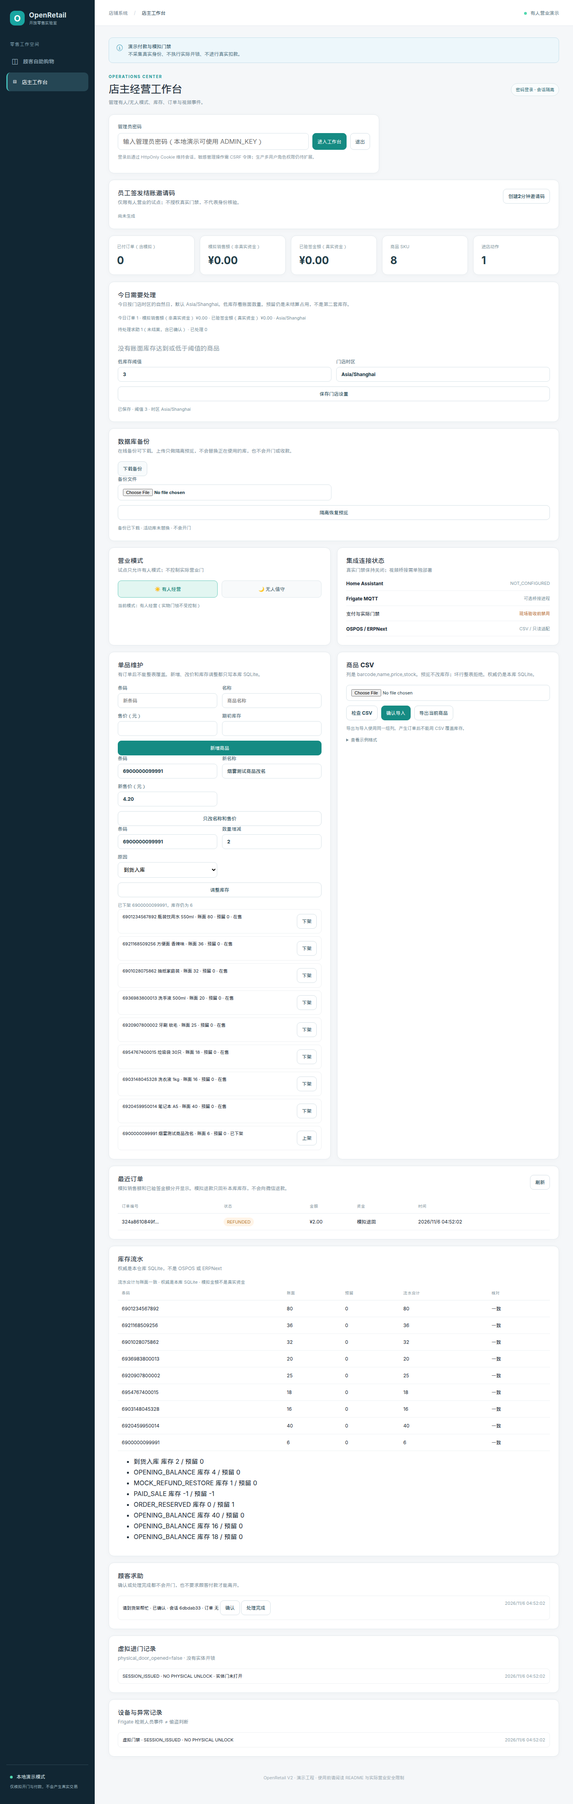
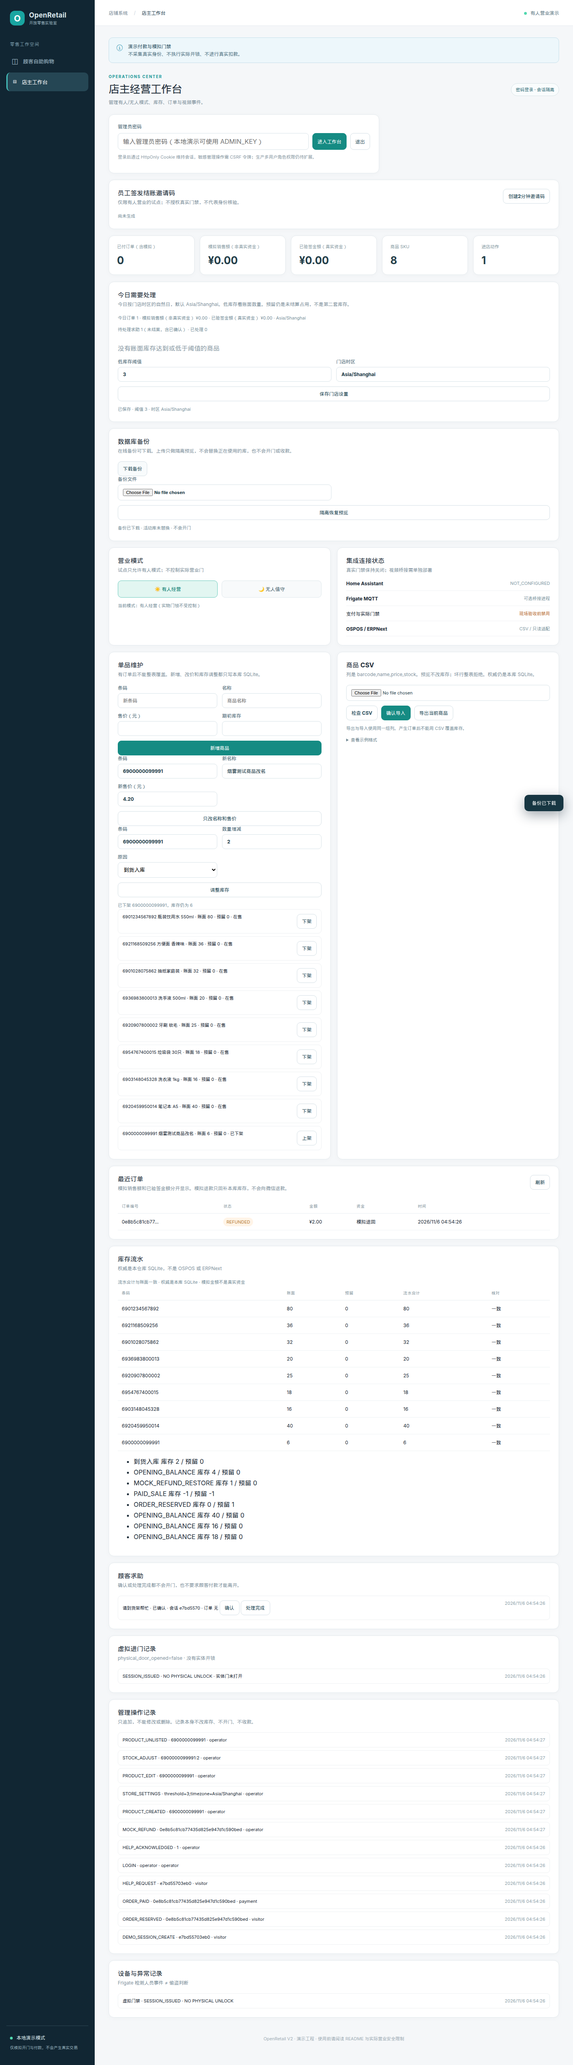
Show an append-only audit trail for privileged admin actions.
Product changes, mock refunds, help updates, store settings, and backup preview now record the existing admin actor. Staff can read the log and cannot edit or delete it.

diff --git a/web/app.js b/web/app.js
@@ -42,7 +42,7 @@ async function showEntryStatus(){const status=await api('/api/entry/status',{gue
 async function createOrder(){if(!state.token)throw Error('先创建访客会话');const req={request_id:(crypto.randomUUID?.()||('demo-'+Date.now()+'-'+Math.random())),lines:[...state.cart].map(([product_id,quantity])=>({product_id,quantity}))};const r=await api('/api/orders',{method:'POST',body:req,guest:true});state.orderId=r.id;$('cancel-order-btn').disabled=false;$('pay-btn').disabled=state.paymentProvider==='DISABLED';$('payment-qr').hidden=true;showPay(r);await refreshMine();return r}
 async function confirmMock(){const r=await api('/api/payments/mock-confirm',{method:'POST',body:{order_id:state.orderId},guest:true});showPay(r);if(r.status==='PAID'){state.cart.clear();state.orderId='';$('cancel-order-btn').disabled=true;$('pay-btn').disabled=true;await loadProducts()}await refreshMine();return r}
 function fundLabel(order){if(order.status==='PAID'&&order.provider==='MOCK_NOT_REAL_MONEY')return '模拟销售额';if(Number(order.verified)===1)return '已验签真实资金';if(order.status==='REFUNDED'&&order.provider==='MOCK_NOT_REAL_MONEY')return '模拟退回';return '未收款'}
-async function adminRefresh(){if(!state.csrf)return;const [overview,orders,events,ledger,help,catalog]=await Promise.all([api('/api/admin/overview',{admin:true}),api('/api/admin/orders',{admin:true}),api('/api/admin/events',{admin:true}),api('/api/admin/inventory-ledger',{admin:true}),api('/api/admin/help-requests',{admin:true}),api('/api/admin/products',{admin:true})]);$('admin-body').hidden=false;$('m-orders').textContent=overview.paid_orders;$('m-sales').textContent=money(overview.simulated_revenue_cents);$('m-real').textContent=money(overview.verified_revenue_cents);$('today-summary').textContent='今日订单 '+overview.today_order_count+' · 模拟销售额（非真实资金） '+money(overview.today_simulated_revenue_cents)+' · 已验签金额（真实资金） '+money(overview.today_verified_revenue_cents)+' · '+overview.store_timezone;$('low-stock-threshold').value=overview.low_stock_threshold;$('store-timezone').value=overview.store_timezone;$('admin-catalog').innerHTML=catalog.map(p=>`<div class="event"><span>${esc(p.barcode)} ${esc(p.name)} · 账面 ${p.stock} · 预留 ${p.reserved_stock} · ${p.active?'在售':'已下架'}</span><button class="btn secondary" type="button" data-listing-id="${p.id}" data-listing-barcode="${esc(p.barcode)}" data-listing-active="${p.active?0:1}">${p.active?'下架':'上架'}</button></div>`).join('')||'<p class="muted">没有商品</p>';$('help-attention').textContent='待处理求助 '+overview.help_needs_attention+'（未结案，含已确认） · 已处理 '+overview.help_resolved;$('low-stock-list').innerHTML=(overview.low_stock||[]).map(p=>`<div class="event"><span>${esc(p.barcode)} ${esc(p.name)} · 账面 ${p.stock} · 预留 ${p.reserved_stock} · 可售 ${p.available_stock}</span><time>阈值 ${overview.low_stock_threshold}</time></div>`).join('')||'<p class="muted">没有账面库存达到或低于阈值的商品</p>';$('m-products').textContent=overview.products;$('m-entries').textContent=overview.door_events;$('mode-info').textContent='当前模式：'+(overview.mode==='UNATTENDED'?'无人值守':'有人经营')+'（实物门锁不受控制）';$('ha-state').textContent=overview.home_assistant.status;$('mode-staffed').classList.toggle('selected',overview.mode==='STAFFED');$('mode-unattended').classList.toggle('selected',overview.mode==='UNATTENDED');$('order-table').innerHTML=orders.map(o=>{const refund=o.status==='PAID'&&o.provider==='MOCK_NOT_REAL_MONEY'&&Number(o.verified)!==1?`<button class="btn secondary" type="button" data-mock-refund="${esc(o.id)}">模拟退款</button>`:'';return `<tr><td title="${esc(o.id)}">${esc(o.id.slice(0,12))}…</td><td><span class="status ${o.status==='PAID'?'paid':''}">${esc(o.status)}</span></td><td>${money(o.total_cents)}</td><td>${esc(fundLabel(o))}</td><td>${time(o.created_at)}</td><td>${refund}</td></tr>`}).join('')||'<tr><td colspan="6">暂无订单</td></tr>';$('ledger-balance').textContent=(ledger.balanced?'流水合计与账面一致':'流水与账面不一致，需要人工核对')+' · 权威是本库 SQLite · 模拟金额不是真实资金';$('ledger-table').innerHTML=ledger.products.map(p=>`<tr><td>${esc(p.barcode)}</td><td>${p.stock}</td><td>${p.reserved_stock}</td><td>${p.ledger_stock}</td><td>${p.balanced?'一致':'不一致'}</td></tr>`).join('')||'<tr><td colspan="5">没有商品</td></tr>';$('ledger-moves').innerHTML=ledger.movements.slice(0,8).map(m=>`<li>${esc(m.reason)} 库存 ${m.stock_delta} / 预留 ${m.reserved_delta}</li>`).join('');const helpLabel={OPEN:'待处理',ACKNOWLEDGED:'已确认',RESOLVED:'已处理'};$('help-list').innerHTML=(help.requests||[]).map(h=>{const buttons=h.status==='RESOLVED'?'':`<button class="btn secondary" type="button" data-help-id="${esc(h.id)}" data-help-status="ACKNOWLEDGED">确认</button> <button class="btn secondary" type="button" data-help-id="${esc(h.id)}" data-help-status="RESOLVED">处理完成</button>`;return `<div class="event"><span>${esc(h.message)} · ${esc(helpLabel[h.status]||h.status)} · 会话 ${esc((h.session_id||'无').slice(0,8))} · 订单 ${esc((h.order_id||'无').slice(0,8))} ${buttons}</span><time>${time(h.created_at)}</time></div>`}).join('')||'<p class="muted">没有求助</p>';$('door-lock-note').textContent=events.physical_door_opened===false?'physical_door_opened=false · 没有实体开锁':'门状态异常';$('door-event-list').innerHTML=(events.door||[]).map(e=>`<div class="event"><span>${esc(e.result)} · ${esc(e.detail)} · 实体门未打开</span><time>${time(e.created_at)}</time></div>`).join('')||'<p class="muted">没有虚拟进门记录</p>';const incident=events.frigate.map(e=>({name:'Frigate 人员事件 · '+e.camera+' · '+e.event_type,t:e.created_at})),doors=events.door.map(e=>({name:'虚拟门禁 · '+e.result+' · '+e.detail,t:e.created_at}));$('event-list').innerHTML=[...incident,...doors].sort((a,b)=>b.t-a.t).slice(0,15).map(e=>`<div class="event"><span>${esc(e.name)}</span><time>${time(e.t)}</time></div>`).join('')||'<p class="muted">暂无设备事件</p>'}
+async function adminRefresh(){if(!state.csrf)return;const [overview,orders,events,ledger,help,catalog,audit]=await Promise.all([api('/api/admin/overview',{admin:true}),api('/api/admin/orders',{admin:true}),api('/api/admin/events',{admin:true}),api('/api/admin/inventory-ledger',{admin:true}),api('/api/admin/help-requests',{admin:true}),api('/api/admin/products',{admin:true}),api('/api/admin/audit',{admin:true})]);$('admin-body').hidden=false;$('m-orders').textContent=overview.paid_orders;$('m-sales').textContent=money(overview.simulated_revenue_cents);$('m-real').textContent=money(overview.verified_revenue_cents);$('today-summary').textContent='今日订单 '+overview.today_order_count+' · 模拟销售额（非真实资金） '+money(overview.today_simulated_revenue_cents)+' · 已验签金额（真实资金） '+money(overview.today_verified_revenue_cents)+' · '+overview.store_timezone;$('low-stock-threshold').value=overview.low_stock_threshold;$('store-timezone').value=overview.store_timezone;$('admin-catalog').innerHTML=catalog.map(p=>`<div class="event"><span>${esc(p.barcode)} ${esc(p.name)} · 账面 ${p.stock} · 预留 ${p.reserved_stock} · ${p.active?'在售':'已下架'}</span><button class="btn secondary" type="button" data-listing-id="${p.id}" data-listing-barcode="${esc(p.barcode)}" data-listing-active="${p.active?0:1}">${p.active?'下架':'上架'}</button></div>`).join('')||'<p class="muted">没有商品</p>';$('audit-list').innerHTML=(audit.events||[]).map(e=>`<div class="event"><span>${esc(e.action)} · ${esc(e.detail)} · ${esc(e.actor)}</span><time>${time(e.created_at)}</time></div>`).join('')||'<p class="muted">没有操作记录</p>';$('help-attention').textContent='待处理求助 '+overview.help_needs_attention+'（未结案，含已确认） · 已处理 '+overview.help_resolved;$('low-stock-list').innerHTML=(overview.low_stock||[]).map(p=>`<div class="event"><span>${esc(p.barcode)} ${esc(p.name)} · 账面 ${p.stock} · 预留 ${p.reserved_stock} · 可售 ${p.available_stock}</span><time>阈值 ${overview.low_stock_threshold}</time></div>`).join('')||'<p class="muted">没有账面库存达到或低于阈值的商品</p>';$('m-products').textContent=overview.products;$('m-entries').textContent=overview.door_events;$('mode-info').textContent='当前模式：'+(overview.mode==='UNATTENDED'?'无人值守':'有人经营')+'（实物门锁不受控制）';$('ha-state').textContent=overview.home_assistant.status;$('mode-staffed').classList.toggle('selected',overview.mode==='STAFFED');$('mode-unattended').classList.toggle('selected',overview.mode==='UNATTENDED');$('order-table').innerHTML=orders.map(o=>{const refund=o.status==='PAID'&&o.provider==='MOCK_NOT_REAL_MONEY'&&Number(o.verified)!==1?`<button class="btn secondary" type="button" data-mock-refund="${esc(o.id)}">模拟退款</button>`:'';return `<tr><td title="${esc(o.id)}">${esc(o.id.slice(0,12))}…</td><td><span class="status ${o.status==='PAID'?'paid':''}">${esc(o.status)}</span></td><td>${money(o.total_cents)}</td><td>${esc(fundLabel(o))}</td><td>${time(o.created_at)}</td><td>${refund}</td></tr>`}).join('')||'<tr><td colspan="6">暂无订单</td></tr>';$('ledger-balance').textContent=(ledger.balanced?'流水合计与账面一致':'流水与账面不一致，需要人工核对')+' · 权威是本库 SQLite · 模拟金额不是真实资金';$('ledger-table').innerHTML=ledger.products.map(p=>`<tr><td>${esc(p.barcode)}</td><td>${p.stock}</td><td>${p.reserved_stock}</td><td>${p.ledger_stock}</td><td>${p.balanced?'一致':'不一致'}</td></tr>`).join('')||'<tr><td colspan="5">没有商品</td></tr>';$('ledger-moves').innerHTML=ledger.movements.slice(0,8).map(m=>`<li>${esc(m.reason)} 库存 ${m.stock_delta} / 预留 ${m.reserved_delta}</li>`).join('');const helpLabel={OPEN:'待处理',ACKNOWLEDGED:'已确认',RESOLVED:'已处理'};$('help-list').innerHTML=(help.requests||[]).map(h=>{const buttons=h.status==='RESOLVED'?'':`<button class="btn secondary" type="button" data-help-id="${esc(h.id)}" data-help-status="ACKNOWLEDGED">确认</button> <button class="btn secondary" type="button" data-help-id="${esc(h.id)}" data-help-status="RESOLVED">处理完成</button>`;return `<div class="event"><span>${esc(h.message)} · ${esc(helpLabel[h.status]||h.status)} · 会话 ${esc((h.session_id||'无').slice(0,8))} · 订单 ${esc((h.order_id||'无').slice(0,8))} ${buttons}</span><time>${time(h.created_at)}</time></div>`}).join('')||'<p class="muted">没有求助</p>';$('door-lock-note').textContent=events.physical_door_opened===false?'physical_door_opened=false · 没有实体开锁':'门状态异常';$('door-event-list').innerHTML=(events.door||[]).map(e=>`<div class="event"><span>${esc(e.result)} · ${esc(e.detail)} · 实体门未打开</span><time>${time(e.created_at)}</time></div>`).join('')||'<p class="muted">没有虚拟进门记录</p>';const incident=events.frigate.map(e=>({name:'Frigate 人员事件 · '+e.camera+' · '+e.event_type,t:e.created_at})),doors=events.door.map(e=>({name:'虚拟门禁 · '+e.result+' · '+e.detail,t:e.created_at}));$('event-list').innerHTML=[...incident,...doors].sort((a,b)=>b.t-a.t).slice(0,15).map(e=>`<div class="event"><span>${esc(e.name)}</span><time>${time(e.t)}</time></div>`).join('')||'<p class="muted">暂无设备事件</p>'}
 async function run(fn){try{await fn()}catch(e){toast(e.message);console.error(e)}}
 document.addEventListener('click',e=>{const refund=e.target.closest('[data-mock-refund]');if(refund){run(async()=>{const r=await api('/api/admin/orders/'+refund.dataset.mockRefund+'/mock-refund',{admin:true,method:'POST'});toast(r.real_money?'异常：模拟退款不应产生真实资金':'模拟退款已回补库存，不是微信退款');await adminRefresh();await loadProducts()});return}const listing=e.target.closest('[data-listing-id]');if(listing){run(async()=>{const r=await api('/api/admin/products/'+listing.dataset.listingId+'/listing',{admin:true,method:'POST',body:{active:listing.dataset.listingActive==='1'}});if(r.stock_changed||r.physical_door_opened||r.real_door_enabled)throw Error('上下架不应改库存或开门');$('product-status').textContent=(r.active?'已上架':'已下架')+' '+r.barcode+'，库存仍为 '+r.stock;await adminRefresh();await loadProducts();toast(r.active?'已上架':'已下架')});return}const helpAction=e.target.closest('[data-help-status]');if(helpAction){run(async()=>{const r=await api('/api/admin/help-requests/'+helpAction.dataset.helpId+'/status',{admin:true,method:'POST',body:{status:helpAction.dataset.helpStatus}});if(r.physical_door_opened||r.payment_required_to_leave||r.door_authorized)throw Error('处理求助不应开门或要求付款');toast(r.status==='RESOLVED'?'求助已处理，门未打开':'已确认求助，门未打开');await adminRefresh()});return}const nav=e.target.closest('[data-panel]');if(nav){document.querySelectorAll('.nav').forEach(n=>n.classList.toggle('active',n===nav));['shop','admin'].forEach(p=>$('panel-'+p).hidden=p!==nav.dataset.panel);$('current-title').textContent=nav.dataset.panel==='shop'?'顾客自助购物':'店主工作台';if(nav.dataset.panel==='admin')run(adminRefresh)}const addButton=e.target.closest('[data-add]');if(addButton)add(addButton.dataset.add);const minus=e.target.closest('[data-minus]');if(minus){if(state.orderId){toast('请先完成或取消当前订单');return}const id=Number(minus.dataset.minus);const q=(state.cart.get(id)||0)-1;if(q<=0)state.cart.delete(id);else state.cart.set(id,q);state.orderId='';$('pay-btn').disabled=true;renderCart()}});
 $('entry-btn').onclick=()=>run(async()=>{const s=await api('/api/entry',{method:'POST'});state.token=s.guest_token;sessionStorage.setItem('retail_guest',state.token);$('entry-result').textContent='访客会话创建成功（未进行身份核验）；有效期至 '+time(s.expires_at);$('door-btn').disabled=false;await showEntryStatus();renderCart();toast('演示访客会话已创建')});

diff --git a/web/index.html b/web/index.html
@@ -66,6 +66,7 @@
         <article class="surface"><div class="surface-heading"><div><h2>库存流水</h2><p>权威是本仓库 SQLite，不是 OSPOS 或 ERPNext</p></div></div><div id="ledger-balance" class="inline-note">登录后核对</div><div class="table-wrap"><table><thead><tr><th>条码</th><th>账面</th><th>预留</th><th>流水合计</th><th>核对</th></tr></thead><tbody id="ledger-table"><tr><td colspan="5">尚未加载</td></tr></tbody></table></div><ul id="ledger-moves" class="events"></ul></article>
         <article class="surface"><div class="surface-heading"><div><h2>顾客求助</h2><p>确认或处理完成都不会开门，也不要求顾客付款才能离开。</p></div></div><div id="help-list" class="events"><p class="muted">没有求助</p></div></article>
         <article class="surface"><div class="surface-heading"><div><h2>虚拟进门记录</h2><p id="door-lock-note">实体门未打开</p></div></div><div id="door-event-list" class="events"><p class="muted">没有虚拟进门记录</p></div></article>
+        <article class="surface"><div class="surface-heading"><div><h2>管理操作记录</h2><p>只追加，不能修改或删除。记录本身不改库存、不开门、不收款。</p></div></div><div id="audit-list" class="events"><p class="muted">没有操作记录</p></div></article>
         <article class="surface"><div class="surface-heading"><div><h2>设备与异常记录</h2><p>Frigate 检测人员事件 ≠ 偷盗判断</p></div></div><div id="event-list" class="events"><p class="muted">没有事件</p></div></article>
       </div>
     </section>

diff --git a/openretail/main.py b/openretail/main.py
@@ -581,8 +581,8 @@ def create_app(settings:Settings|None=None)->FastAPI:
             return mock_body(order_id=order_id,trade_state=mock_trade_state(row,payment),
                              order_status=row['status'],expired_last_check=expired)
 
-    @app.post('/api/admin/orders/{order_id}/mock-refund',dependencies=[Depends(admin)])
-    def mock_refund(order_id:str):
+    @app.post('/api/admin/orders/{order_id}/mock-refund')
+    def mock_refund(order_id:str, actor:str=Depends(admin)):
         """Restore SQLite stock for an unverified mock sale. No provider refund exists."""
         mock_enabled()
         with db.tx() as c:
@@ -607,7 +607,7 @@ def create_app(settings:Settings|None=None)->FastAPI:
             if cur.rowcount!=1:raise RuntimeError('mock refund lost the paid row')
             c.execute('INSERT INTO refunds(id,order_id,provider,amount_cents,created_at) VALUES(?,?,?,?,?)',
                       ('mock_refund_'+order_id,order_id,'MOCK_NOT_REAL_MONEY',row['total_cents'],now()))
-            db.audit(c,'operator','MOCK_REFUND',order_id)
+            db.audit(c,actor,'MOCK_REFUND',order_id)
             return mock_body(order_id=order_id,outcome='REFUNDED',trade_state='REFUND',
                              order_status='REFUNDED',stock_restored=True)
 
@@ -801,8 +801,8 @@ def create_app(settings:Settings|None=None)->FastAPI:
             db.audit(c,'operator','MODE_SET',payload.mode)
         return {'mode':payload.mode,'physical_door_affected':False}
 
-    @app.put('/api/admin/store-settings',dependencies=[Depends(admin)])
-    def update_store_settings(payload:StoreSettingsInput):
+    @app.put('/api/admin/store-settings')
+    def update_store_settings(payload:StoreSettingsInput, actor:str=Depends(admin)):
         """Staff threshold and business-day timezone. No door or payment side effects."""
         if payload.low_stock_threshold is None and payload.timezone is None:
             abort(422,'请提供低库存阈值或门店时区')
@@ -815,7 +815,7 @@ def create_app(settings:Settings|None=None)->FastAPI:
             if payload.timezone is not None:
                 c.execute('''INSERT INTO store_settings(key,value) VALUES('store_timezone',?)
                              ON CONFLICT(key) DO UPDATE SET value=excluded.value''',(payload.timezone,))
-            db.audit(c,'operator','STORE_SETTINGS',
+            db.audit(c,actor,'STORE_SETTINGS',
                      f"threshold={payload.low_stock_threshold};timezone={payload.timezone or ''}")
             threshold=int(c.execute("SELECT value FROM store_settings WHERE key='low_stock_threshold'").fetchone()['value'])
             zone_name=c.execute("SELECT value FROM store_settings WHERE key='store_timezone'").fetchone()['value']
@@ -826,8 +826,8 @@ def create_app(settings:Settings|None=None)->FastAPI:
     def admin_products():
         with db.connect() as c:return [asdict(r) for r in c.execute('SELECT * FROM products ORDER BY id')]
 
-    @app.post('/api/admin/products',dependencies=[Depends(admin)])
-    def create_product(payload:ProductInput):
+    @app.post('/api/admin/products')
+    def create_product(payload:ProductInput, actor:str=Depends(admin)):
         """Add one SQLite catalog row. Duplicate barcodes are not an overwrite."""
         with db.tx() as c:
             db.expire(c,now())
@@ -836,27 +836,27 @@ def create_app(settings:Settings|None=None)->FastAPI:
             cur=c.execute('INSERT INTO products(barcode,name,price_cents,stock,active) VALUES(?,?,?,?,?)',
                           (payload.barcode,payload.name,payload.price_cents,payload.stock,int(payload.active)))
             db.movement(c,cur.lastrowid,payload.stock,0,'OPENING_BALANCE',payload.barcode)
-            db.audit(c,'operator','PRODUCT_CREATED',payload.barcode)
+            db.audit(c,actor,'PRODUCT_CREATED',payload.barcode)
             row=c.execute('SELECT id,barcode,name,price_cents,stock,reserved_stock FROM products WHERE id=?',(cur.lastrowid,)).fetchone()
         return {**asdict(row),'created':True,'system_of_record':'sqlite'}
 
-    @app.patch('/api/admin/products/{product_id}',dependencies=[Depends(admin)])
-    def edit_product(product_id:int,payload:ProductEdit):
+    @app.patch('/api/admin/products/{product_id}')
+    def edit_product(product_id:int,payload:ProductEdit, actor:str=Depends(admin)):
         """Name and price only. Stock and reservations stay untouched."""
         with db.tx() as c:
             current=c.execute('SELECT id,barcode,stock,reserved_stock FROM products WHERE id=?',(product_id,)).fetchone()
             if not current:abort(404,'商品不存在')
             c.execute('UPDATE products SET name=?,price_cents=? WHERE id=?',
                       (payload.name,payload.price_cents,product_id))
-            db.audit(c,'operator','PRODUCT_EDIT',current['barcode'])
+            db.audit(c,actor,'PRODUCT_EDIT',current['barcode'])
             after=c.execute('SELECT stock,reserved_stock FROM products WHERE id=?',(product_id,)).fetchone()
             if after['stock']!=current['stock'] or after['reserved_stock']!=current['reserved_stock']:
                 raise RuntimeError('name/price edit changed stock')
         return {'id':product_id,'barcode':current['barcode'],'name':payload.name,'price_cents':payload.price_cents,
                 'stock':current['stock'],'reserved_stock':current['reserved_stock'],'stock_changed':False}
 
-    @app.post('/api/admin/products/{product_id}/listing',dependencies=[Depends(admin)])
-    def set_listing(product_id:int,payload:ListingInput):
+    @app.post('/api/admin/products/{product_id}/listing')
+    def set_listing(product_id:int,payload:ListingInput, actor:str=Depends(admin)):
         """上架/下架 one SKU. Stock, reservations, and the ledger stay unchanged."""
         with db.tx() as c:
             current=c.execute('SELECT id,barcode,stock,reserved_stock,active FROM products WHERE id=?',(product_id,)).fetchone()
@@ -866,7 +866,7 @@ def create_app(settings:Settings|None=None)->FastAPI:
             outcome='IDEMPOTENT' if current['active']==desired else ('LISTED' if desired else 'UNLISTED')
             if outcome!='IDEMPOTENT':
                 c.execute('UPDATE products SET active=? WHERE id=?',(desired,product_id))
-                db.audit(c,'operator','PRODUCT_'+outcome,current['barcode'])
+                db.audit(c,actor,'PRODUCT_'+outcome,current['barcode'])
             after=c.execute('SELECT stock,reserved_stock,active FROM products WHERE id=?',(product_id,)).fetchone()
             after_moves=c.execute('SELECT COUNT(*) n FROM stock_movements WHERE product_id=?',(product_id,)).fetchone()['n']
             if after['stock']!=current['stock'] or after['reserved_stock']!=current['reserved_stock'] or after_moves!=before_moves:
@@ -875,8 +875,8 @@ def create_app(settings:Settings|None=None)->FastAPI:
                 'stock':after['stock'],'reserved_stock':after['reserved_stock'],'stock_changed':False,
                 'physical_door_opened':False,'real_door_enabled':False}
 
-    @app.post('/api/admin/products/{product_id}/adjust-stock',dependencies=[Depends(admin)])
-    def adjust_stock(product_id:int,payload:StockChange):
+    @app.post('/api/admin/products/{product_id}/adjust-stock')
+    def adjust_stock(product_id:int,payload:StockChange, actor:str=Depends(admin)):
         if payload.quantity_delta==0:abort(422,'调整数量不能为 0')
         with db.tx() as c:
             p=c.execute('SELECT * FROM products WHERE id=?',(product_id,)).fetchone()
@@ -887,7 +887,7 @@ def create_app(settings:Settings|None=None)->FastAPI:
                 abort(409,'库存调整会低于可售底线或侵占未结算预留')
             c.execute('UPDATE products SET stock=? WHERE id=?',(new,product_id))
             db.movement(c,product_id,payload.quantity_delta,0,payload.reason,'MANUAL')
-            db.audit(c,'operator','STOCK_ADJUST',f'{product_id}:{payload.quantity_delta}')
+            db.audit(c,actor,'STOCK_ADJUST',f'{p["barcode"]}:{payload.quantity_delta}')
         return {'product_id':product_id,'stock':new,'reserved_stock':p['reserved_stock'],
                 'reason':payload.reason,'system_of_record':'sqlite'}
 
@@ -919,8 +919,8 @@ def create_app(settings:Settings|None=None)->FastAPI:
         if not path.is_absolute():path=(ROOT/path).resolve()
         return path.resolve()
 
-    @app.get('/api/admin/backup',dependencies=[Depends(admin)])
-    def download_backup():
+    @app.get('/api/admin/backup')
+    def download_backup(actor:str=Depends(admin)):
         """Online SQLite backup. The file is not written into the repository."""
         src=live_database_file()
         if not src.is_file():abort(404,'找不到数据库')
@@ -936,14 +936,14 @@ def create_app(settings:Settings|None=None)->FastAPI:
         finally:
             dst.unlink(missing_ok=True)
         with db.connect() as c:
-            db.audit(c,'operator','BACKUP_DOWNLOAD',src.name)
+            db.audit(c,actor,'BACKUP_DOWNLOAD',src.name)
         stamp=datetime.now(timezone.utc).strftime('%Y%m%dT%H%M%SZ')
         return Response(payload,media_type='application/vnd.sqlite3',headers={
             'Content-Disposition':f'attachment; filename="openretail-{stamp}.sqlite3"',
             'X-OpenRetail-Live-Replaced':'false'})
 
-    @app.post('/api/admin/restore-preview',dependencies=[Depends(admin)])
-    async def restore_preview(file:UploadFile=File(...)):
+    @app.post('/api/admin/restore-preview')
+    async def restore_preview(file:UploadFile=File(...), actor:str=Depends(admin)):
         """Assess an uploaded backup in an isolated file. Never replaces DB_PATH."""
         raw=await file.read(20_000_001)
         if len(raw)>20_000_000:abort(413,'备份文件过大')
@@ -965,7 +965,7 @@ def create_app(settings:Settings|None=None)->FastAPI:
         finally:
             shutil.rmtree(folder,ignore_errors=True)
         with db.connect() as c:
-            db.audit(c,'operator','RESTORE_PREVIEW','isolated')
+            db.audit(c,actor,'RESTORE_PREVIEW','isolated')
         return {'integrity':report['integrity'],'products':report['products'],'orders':report['orders'],
                 'paid_orders':report['paid_orders'],'ok':report['ok'],'problems':report['problems'],
                 'live_replaced':False,'physical_door_opened':False,'real_door_enabled':False,
@@ -994,8 +994,8 @@ def create_app(settings:Settings|None=None)->FastAPI:
                                                   FROM help_requests ORDER BY id DESC LIMIT 50''')]
         return {'physical_door_opened':False,'payment_required_to_leave':False,'requests':rows}
 
-    @app.post('/api/admin/help-requests/{request_id}/status',dependencies=[Depends(admin)])
-    def update_help_status(request_id:int,payload:HelpStatus):
+    @app.post('/api/admin/help-requests/{request_id}/status')
+    def update_help_status(request_id:int,payload:HelpStatus, actor:str=Depends(admin)):
         """Mark a help request seen or done. Never opens a door or collects payment."""
         if payload.status not in ('ACKNOWLEDGED','RESOLVED'):
             abort(422,'状态只能是 ACKNOWLEDGED 或 RESOLVED')
@@ -1007,7 +1007,7 @@ def create_app(settings:Settings|None=None)->FastAPI:
             outcome='IDEMPOTENT' if row['status']==payload.status else payload.status
             if outcome!='IDEMPOTENT':
                 c.execute('UPDATE help_requests SET status=? WHERE id=?',(payload.status,request_id))
-                db.audit(c,'operator','HELP_'+payload.status,str(request_id))
+                db.audit(c,actor,'HELP_'+payload.status,str(request_id))
         return {'id':request_id,'status':payload.status,'outcome':outcome,
                 'physical_door_opened':False,'door_authorized':False,'payment_required_to_leave':False}
 
@@ -1036,6 +1036,14 @@ def create_app(settings:Settings|None=None)->FastAPI:
                     SUM(reserved_delta) OVER (PARTITION BY product_id ORDER BY id) reserved_after
                     FROM stock_movements ORDER BY id DESC LIMIT ?''',(limit,))]
         return {'system_of_record':'sqlite','balanced':balanced,'products':products,'movements':movements}
+
+    @app.get('/api/admin/audit')
+    def admin_audit(limit:int=Query(default=40,ge=1,le=200), actor:str=Depends(admin)):
+        """Read-only privileged-action trail. Rows are not editable from this API."""
+        with db.connect() as c:
+            rows=[asdict(x) for x in c.execute(
+                'SELECT id,actor,action,detail,created_at FROM audit_events ORDER BY id DESC LIMIT ?',(limit,))]
+        return {'append_only':True,'physical_door_opened':False,'payment_required_to_leave':False,'events':rows}
 
     @app.get('/api/admin/events',dependencies=[Depends(admin)])
     def admin_events():

diff --git a/tests/test_admin_audit.py b/tests/test_admin_audit.py
@@ -1,0 +1,28 @@
+"""Privileged admin actions append a read-only audit row and do not open a door."""
+from conftest import visitor
+
+
+def test_unlist_appends_audit_without_changing_stock(client, admin_header):
+    assert client.get('/api/admin/audit').status_code==401
+    guest=visitor(client)
+    seeded=client.get('/api/products').json()[0]
+    assert client.post('/api/orders', headers=guest, json={'request_id':'audit-after-order',
+        'lines':[{'product_id':seeded['id'], 'quantity':1}]}).status_code==201
+    created=client.post('/api/admin/products', headers=admin_header, json={
+        'barcode':'6900000044444', 'name':'待审计', 'price_cents':300, 'stock':9, 'active':True}).json()
+    hidden=client.post('/api/admin/products/'+str(created['id'])+'/listing', headers=admin_header, json={'active':False})
+    assert hidden.status_code==200 and hidden.json()['stock']==9 and hidden.json()['stock_changed'] is False
+    adjusted=client.post('/api/admin/products/'+str(created['id'])+'/adjust-stock', headers=admin_header,
+                         json={'quantity_delta':1, 'reason':'到货入库'})
+    assert adjusted.status_code==200 and adjusted.json()['stock']==10
+    log=client.get('/api/admin/audit', headers=admin_header).json()
+    assert log['append_only'] is True
+    assert log['physical_door_opened'] is False and log['payment_required_to_leave'] is False
+    actions={(row['action'], row['detail'], row['actor']) for row in log['events']}
+    assert ('PRODUCT_CREATED','6900000044444','demo-admin-key') in actions
+    assert ('PRODUCT_UNLISTED','6900000044444','demo-admin-key') in actions
+    assert ('STOCK_ADJUST','6900000044444:1','demo-admin-key') in actions
+    assert all(row['created_at'] for row in log['events'])
+    assert client.delete('/api/admin/audit/1', headers=admin_header).status_code==404
+    again=client.get('/api/admin/audit', headers=admin_header).json()
+    assert ('PRODUCT_UNLISTED','6900000044444','demo-admin-key') in {(row['action'], row['detail'], row['actor']) for row in again['events']}

diff --git a/scripts/ui_bridge_smoke.py b/scripts/ui_bridge_smoke.py
@@ -97,6 +97,7 @@ with TestClient(create_app(cfg)) as backend,sync_playwright() as pw:
  p.wait_for_function("document.querySelector('#product-status').textContent.includes('库存已调整为 6')")
  p.locator('[data-listing-barcode="6900000099991"]').click()
  p.wait_for_function("document.querySelector('#product-status').textContent.includes('已下架') && document.querySelector('#product-status').textContent.includes('库存仍为 6')")
+ p.wait_for_function("document.querySelector('#audit-list').textContent.includes('PRODUCT_UNLISTED') && document.querySelector('#audit-list').textContent.includes('6900000099991')")
  p.locator('[data-panel="shop"]').click()
  p.locator('#barcode').fill('6900000099991')
  p.locator('#scan-form button[type="submit"]').click()

diff --git a/docs/PROJECT_STATUS.md b/docs/PROJECT_STATUS.md
@@ -4,6 +4,20 @@
 
 完全无人值守经营仍是 **NOT_APPROVED**。示例配置里的真实支付和实体开锁都是关闭的。
 
+## 本增量（管理操作审计）
+
+已在代码和测试里做到，并在本机复跑：
+
+- 复用已有的 `audit_events` 表，没有把这些记录塞进虚拟门禁事件。
+- 新增、改价、库存调整、上架、下架、模拟退款、求助确认/处理、门店时区与低库存阈值、备份下载、隔离恢复预览都会追加一行。字段是时间、动作、目标条码或编号、以及现有管理员身份（演示密钥登录记为 `demo-admin-key`，密码会话记为 `operator`）。不记录密钥、备份内容和支付凭证。
+- `GET /api/admin/audit` 需要管理员身份，未登录返回 401。没有修改或删除接口；对不存在的删除路径返回 404，记录仍在。
+- 下架不改库存。库存调整只改变调整数量本身。审计响应里 `physical_door_opened=false`，`payment_required_to_leave=false`。
+- 管理页登录后能看到最近的操作记录。
+
+`/tmp/openretail-venv/bin/python -m pytest -q`（工作目录 `/workspace`，Python 3.12.3）：**57 passed，1 warning，5.91s，退出码 0**。警告仍是 Starlette 的 `httpx` TestClient 弃用提示。57 = 上一轮 56 + 本增量 1。
+
+`scripts/ui_bridge_smoke.py` 在去掉密钥环境变量后退出码 0。下架条码 `6900000099991` 之后，操作记录含 `PRODUCT_UNLISTED` 和该条码。390 宽 `scrollWidth` 390，1440 宽 `scrollWidth` 1440，`pageerror` 为空。这仍是 Chrome 到 TestClient 的桥，不是真机。
+
 ## 本增量（单品上架 / 下架）
 
 已在代码和测试里做到，并在本机复跑：
